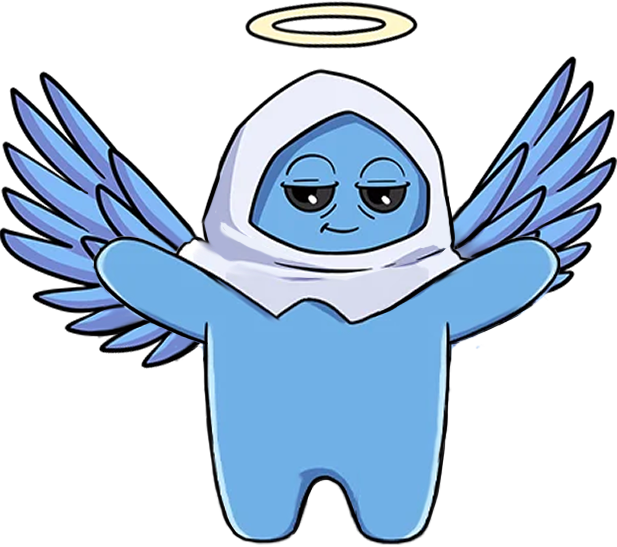
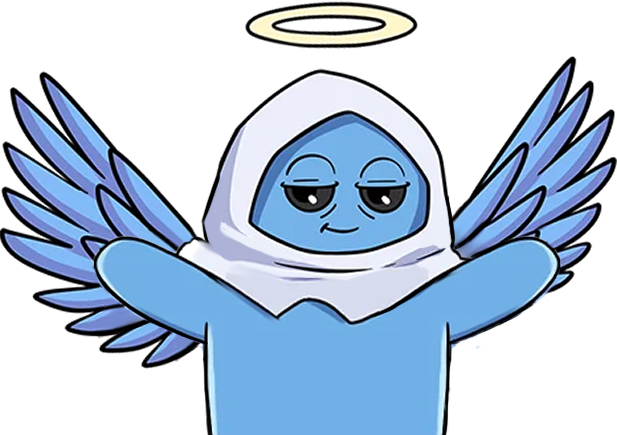
Adjust CSS for hero character margin and update image asset to enhance visual consistency across the site.

diff --git a/source/css/main.css b/source/css/main.css
@@ -599,7 +599,7 @@ header.active {
 .sn_hero_content .hero_char {
    max-width: 40rem;
    width: 100%;
-   margin-top: -3rem;
+   margin-top: -1rem;
    -webkit-animation: hero_char 1s ease;
    animation: hero_char 1s ease;
 }
